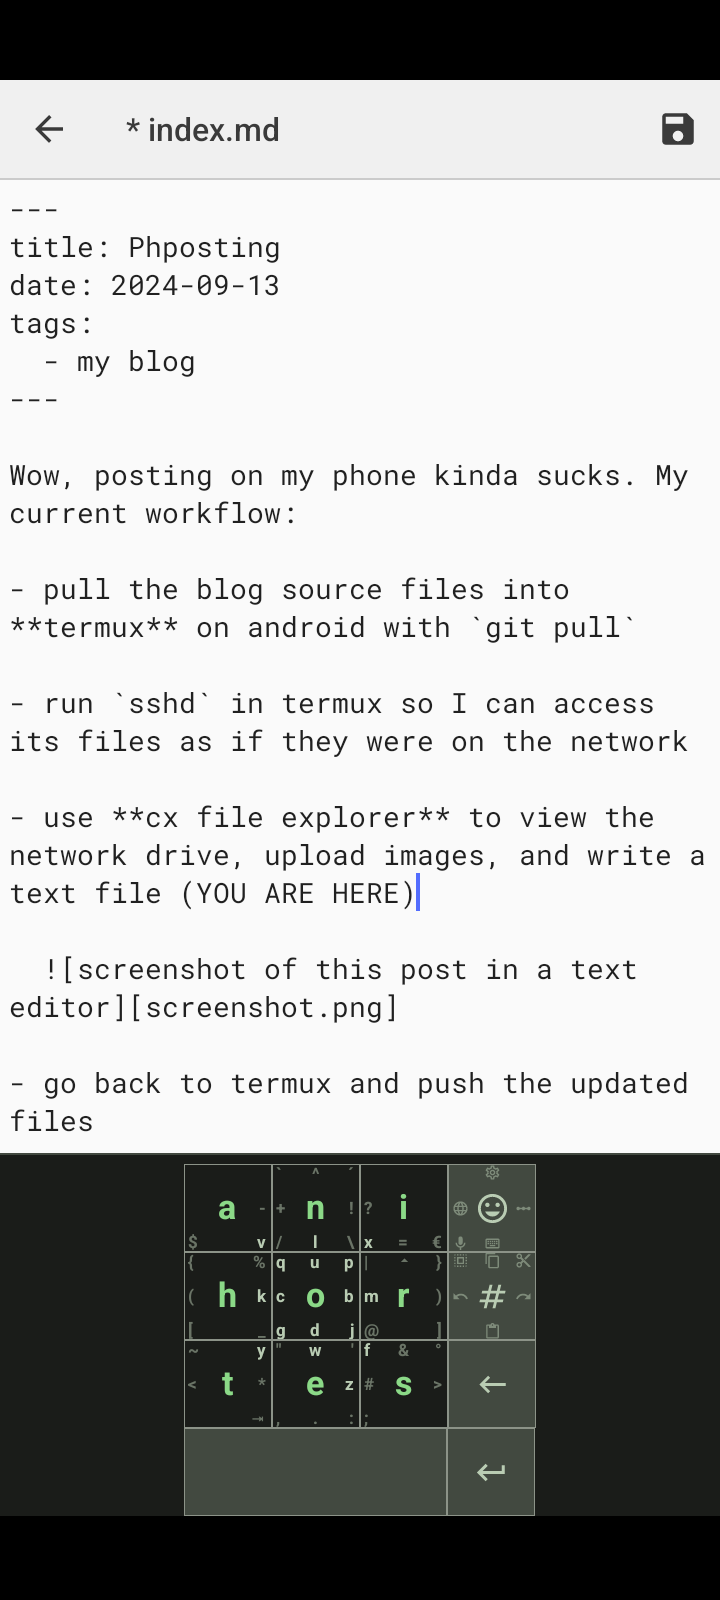
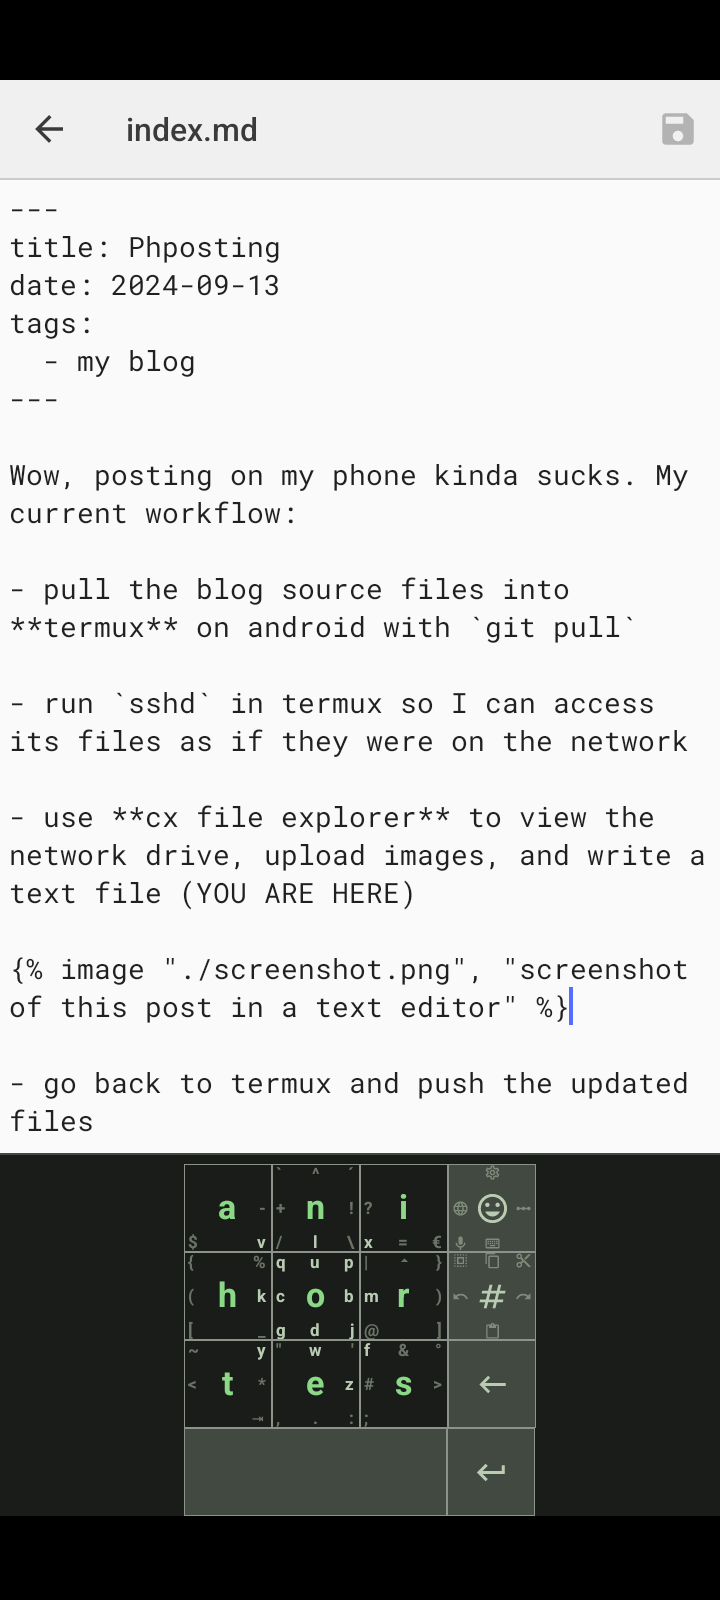
phposting2

diff --git a/content/blog/2024-09-13-02-phposting/index.md b/content/blog/2024-09-13-02-phposting/index.md
@@ -13,7 +13,7 @@ Wow, posting on my phone kinda sucks. My current workflow:
 
 - use **cx file explorer** to view the network drive, upload images, and write a text file (YOU ARE HERE)
 
-  ![screenshot of this post in a text editor][screenshot.png]
+{% image "./screenshot.png", "screenshot of this post in a text editor" %}
 
 - go back to termux and push the updated files
 
